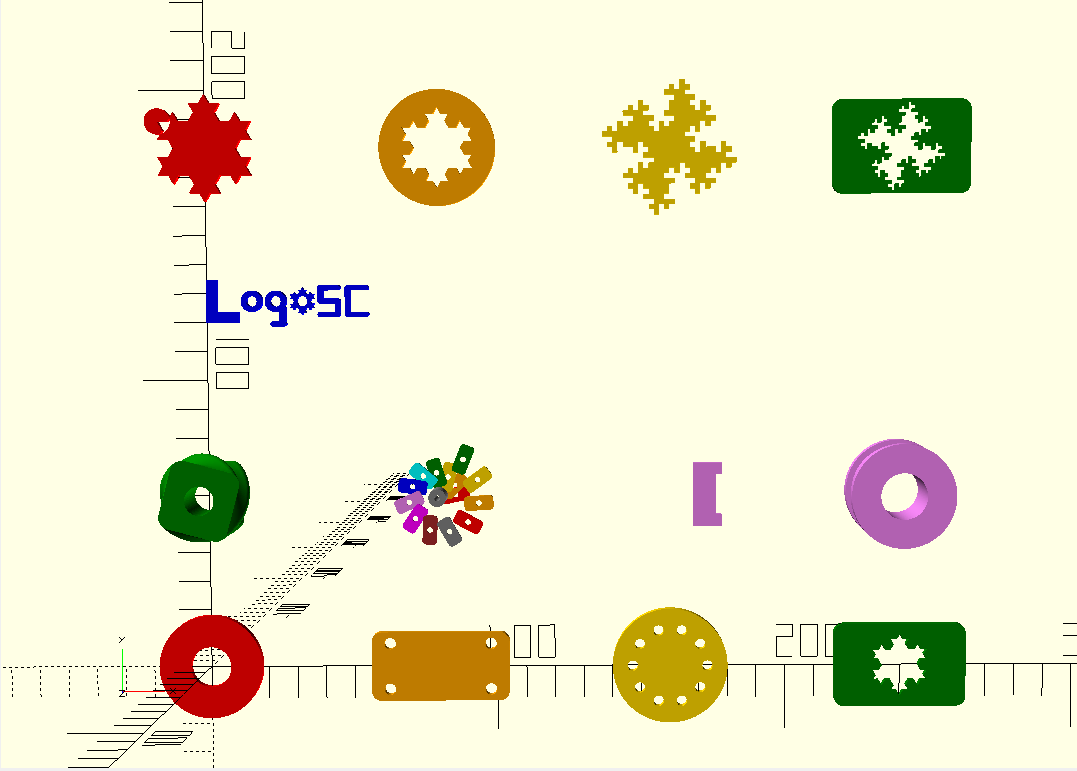
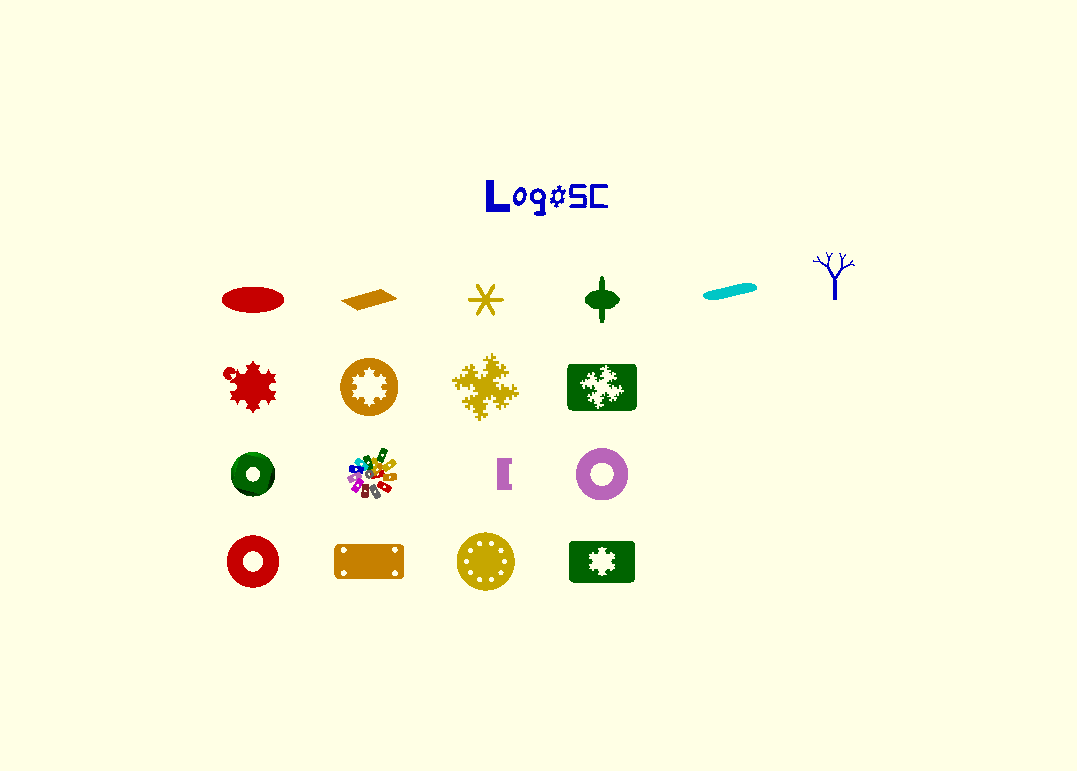
Added gallery row of affine tests

diff --git a/LogoSC-User-Manual.md b/LogoSC-User-Manual.md
@@ -375,12 +375,14 @@ modeling tool rather than as a test harness. It contains a gallery module plus
 individual named examples for washers, mounting plates, radial holes, Koch
 snowflake geometry, L-system-generated fractal outlines, rotate-extruded
 profiles, twisted extrusions, a small spiral tower, and the LogoSC feature
-wordmark.
+wordmark. The wordmark is centered above the gallery as a masthead, and its two
+O glyphs use generated LogoSC shear for a visible right-leaning italic treatment. A dedicated
+six-cell row demonstrates canonical local transforms.
 
 ![Figure 4-1](images/examples-gallery.png)
 
 *Figure 4-1. The Examples gallery combines basic shapes, holes, native OpenSCAD linear and
-rotational extrusions, and recursive L-system-inspired models.*
+rotational extrusions, recursive L-system-inspired models, and local affine transforms.*
 
 Open `LogoSC-Examples.scad` directly in OpenSCAD. The top-level Customizer
 selector controls what is rendered:
@@ -407,6 +409,11 @@ Use it as a cookbook: copy a command list such as `ExampleMountingPlate`, or use
 one of the example rendering modules as a starting point for your own model.
 For the L-system examples, see `LogoSC-LSystems-Notes.md` for design context
 and limitations.
+
+The transform row demonstrates independent-axis ellipse scaling, shear generated
+by turning after nonuniform scale, persistent `TURN` across a six-iteration
+snowflake, negative-scale reflection, affine-transformed arcs, and a recursive
+tree whose branches combine `PUSH`/`POP`, `TURN`, and shrinking `SCALE`.
 
 Open `LogoSC-Nuts-And-Bolts.scad` for a more complete manufacturing example. Its Customizer
 selects bolt, nut, assembly, profile, or `Gallery (Slow!)` output; common metric and Unified sizes;

diff --git a/LogoSC-Developer-Notebook.md b/LogoSC-Developer-Notebook.md
@@ -2821,5 +2821,14 @@ Verification boundary:
 
 Follow-up:
 
-- Exercise the model in reusable motif examples before exposing an explicit `SHEAR` opcode.
+- Added a six-cell gallery row using ordinary LogoSC command data: ellipse, generated shear,
+  persistent sixfold turning, reflection, transformed arcs, and a recursive scaled/turned tree.
+- Kept the tree within LogoSC's filled-region model by generating explicitly closed branch
+  contours and using pen-up motion only to reposition between recursive branch bases.
+- Move the wordmark from an isolated middle cell to a centered masthead above the gallery.
+  Apply a visible right-leaning generated shear to both O glyphs using nonuniform `SCALE`,
+  `TURN`, and `DIR` so the branding demonstrates the transform model without a `SHEAR` opcode.
+- Remove the resulting empty row by compacting the L-system and transform rows downward. Increase
+  the wordmark gallery scale from `0.46` to `0.69` so the masthead is 50 percent larger.
+- Continue exercising the model before exposing an explicit `SHEAR` opcode.
 - Use the transform behavior as the foundation for the proposed Gordian-knot feature design.

diff --git a/CHANGELOG.md b/CHANGELOG.md
@@ -20,6 +20,14 @@
   helpers using a documented standard 2x3 column-vector matrix convention,
   deterministic reflection canonicalization, optional heading-reference
   recovery, and malformed/singular input rejection.
+- Added a six-cell affine-transform gallery row with documented ellipse, sheared
+  rectangle, persistent-turn snowflake, reflected butterfly, transformed arc
+  capsule, and recursively scaled/turned tree examples.
+- Moved the LogoSC feature wordmark to a centered gallery masthead and gave both
+  O glyphs a right-leaning generated-shear italic treatment using `SCALE`,
+  `TURN`, and world-absolute `DIR`.
+- Compacted the gallery after moving the wordmark by shifting the L-system and
+  transform rows downward, and enlarged the masthead by 50 percent.
 
 ## [2026.4] - 2026-07-27
 

diff --git a/README.md b/README.md
@@ -64,7 +64,7 @@ automatic output in the examples file. Ordinary user models can omit `LogoSCRunM
 tests do not run unless explicitly selected.
 
 The default Examples view combines basic shapes, holes, linear and rotational extrusions,
-and recursive L-system-inspired models in one gallery.
+recursive L-system-inspired models, and a six-example local affine-transform row.
 
 ![LogoSC Examples gallery in OpenSCAD](images/examples-gallery.png)
 
